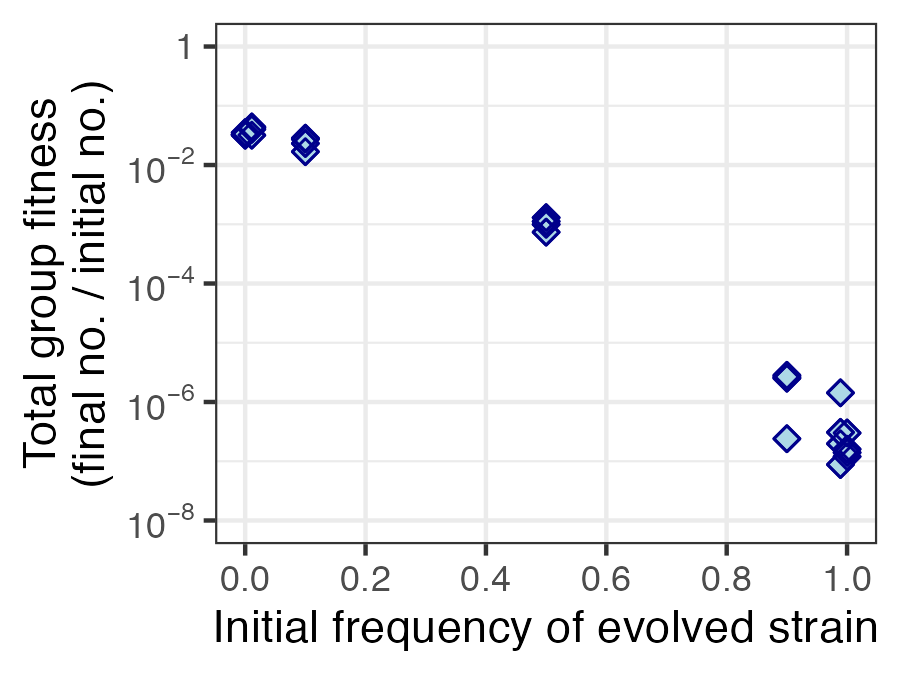
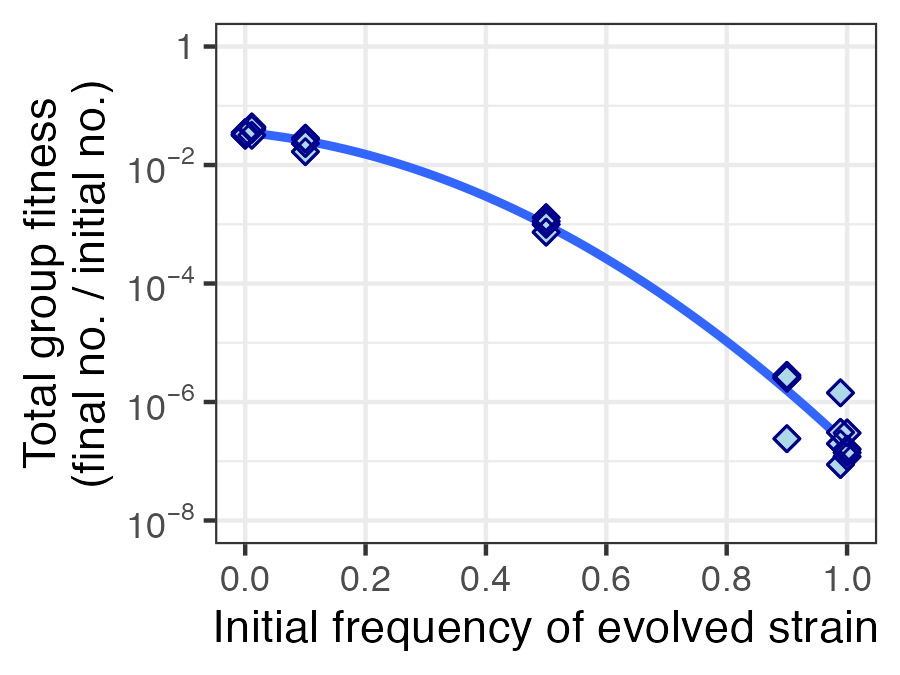
Small revisions to README

Changed region(s): [[0.6222, 0.3422, 0.9333, 0.6533], [0.3733, 0.2178, 0.5911, 0.3422], [0.28, 0.1867, 0.3733, 0.2178]]

diff --git a/README.md b/README.md
@@ -9,11 +9,10 @@ microbimixr: analyze microbial mix experiments
 
 ## Overview
 
-A common experimental design for studying microbial interactions is to
-mix together two different microbes (different bacterial genotypes, for
-example) then measure how their fitness and behavior depends on mix
-frequency. How do they behave differently together compared to on their
-own?
+A common way to study microbial interactions is to mix together two
+different microbes (different bacteria strains, for example) then
+measure how their fitness depends on their frequency in the mix. How do
+they behave differently together compared to on their own?
 
 <!--
 `microbimixr` is an R package that provides tools to **calculate and plot the fitness effects of microbial interactions**, helping researchers get the most out of their data. 
@@ -26,8 +25,8 @@ that are:
 
 -   Robust and quantitatively comparable across different species and
     different types of interaction
--   Useful for both individual and group-centered approaches to social
-    interaction
+-   Useful for both individual and group-centered approaches to
+    microbial interactions
 -   Well-suited to statistical analysis of effect sizes and confidence
     intervals
 
@@ -83,7 +82,7 @@ head(fitness_smith_2010)
 data including strain density, total group density, and strain
 frequency.
 
-## Diagnostic overview
+## Compare fitness measures
 
 To quickly see what fitness measures would be most useful for your
 dataset, use `plot_mix_fitness()`. It draws a combined figure with
@@ -96,7 +95,7 @@ plot_mix_fitness(fitness_smith_2010)
 
 ![Diagnostic plot from microbimixr](./man/figures/README-smith-2010.png)
 
-## Plot fitness
+## Plot specific fitness measures
 
 Once you know which fitness measures to focus on, you can use
 microbimixr to visualize them. The simplest way is to use its built-in
@@ -111,19 +110,23 @@ fig_within <- plot_within_group_fitness(
 fig_total + fig_within
 ```
 
+<!-- ggsave("README-plot-functions.png", width = 5, height = 2.25) -->
+
 ![](./man/figures/README-plot-functions.png)
 
 You can also use the individual axes and other elements of microbimixr
 plots with the ggplot2 graphics package.
 
 ``` r
-ggplot(fitness_smith_2010) +
-    aes(x = initial_fraction_A, y = fitness_total) +
+ggplot(fitness_smith_2010, aes(x = initial_fraction_A, y = fitness_total)) +
     scale_x_initial_fraction(name = "Initial frequency of evolved strain") +
     scale_y_fitness_total(limits = c(1e-8, 1)) +
+    geom_smooth(method = "lm", se = FALSE, formula = y ~ poly(x, 2)) +
     geom_point_overlap(shape = 23, fill = "lightblue", color = "darkblue", size = 2) +
     theme_bw()
 ```
+
+<!-- ggsave("README-plot-elements.png", width = 3, height = 2.25) -->
 
 <img src="./man/figures/README-plot-elements.png" style="width:50.0%" />
 
